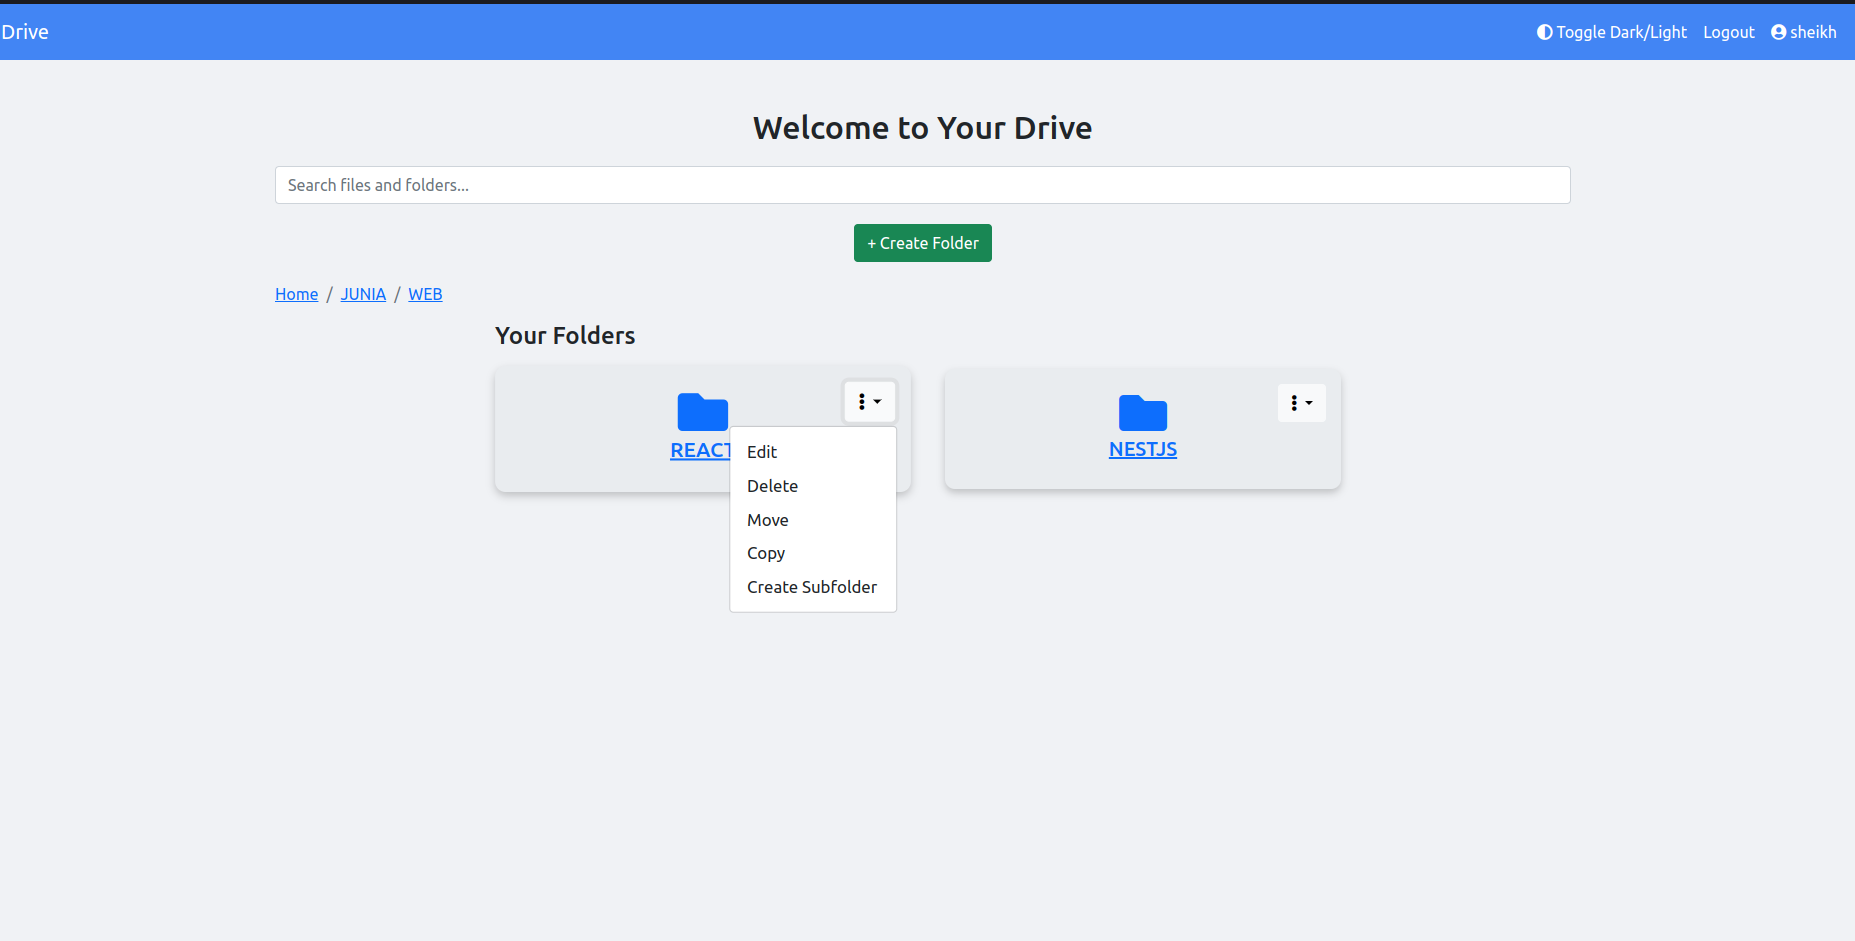
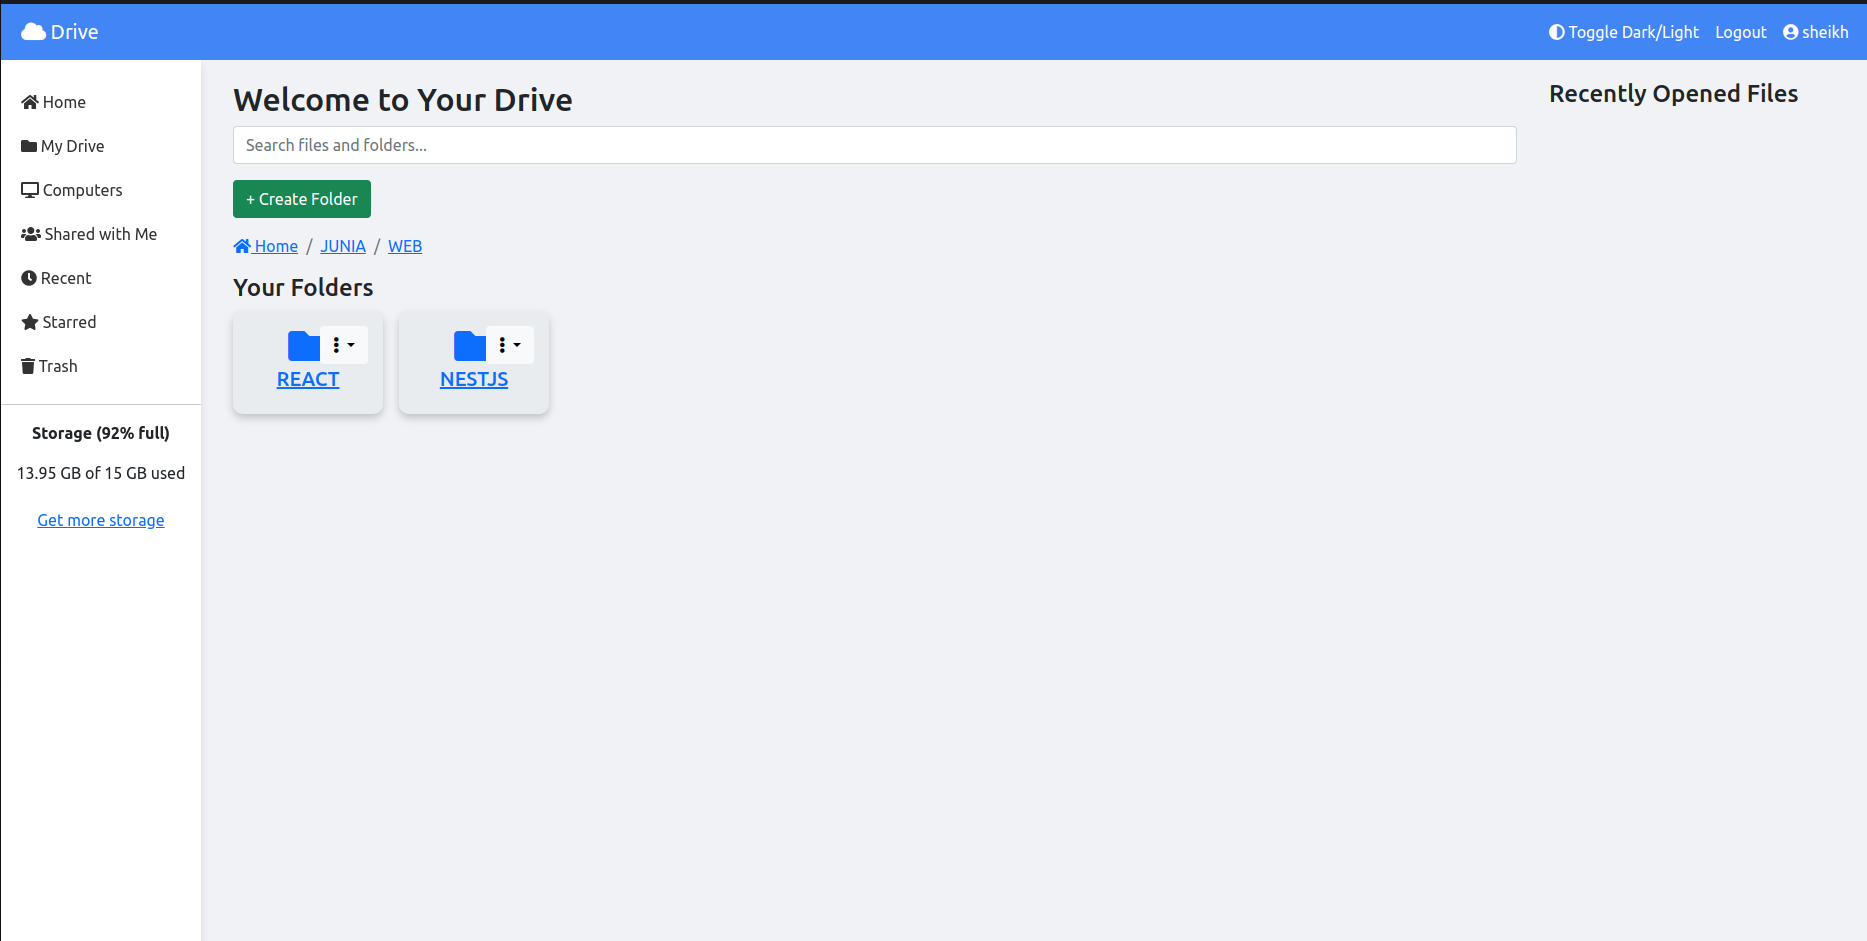
home page

diff --git a/user_management/templates/home.html b/user_management/templates/home.html
@@ -22,38 +22,57 @@
         .navbar {
             background-color: #4285f4;
             color: white;
+            position: sticky;
+            top: 0;
+            z-index: 1000;
         }
 
         .navbar a {
             color: white !important;
         }
 
-        .folder-card {
-            margin: 10px;
+        .sidebar {
+            height: 100vh;
+            position: fixed;
+            top: 56px;
+            left: 0;
+            padding-top: 20px;
+            background-color: #ffffff;
+            width: 220px;
+            box-shadow: 0 4px 8px rgba(0, 0, 0, 0.1);
+        }
+
+        .sidebar a {
+            padding: 10px 20px;
+            display: block;
+            color: #333;
+            text-decoration: none;
+        }
+
+        .sidebar a:hover {
+            background-color: #f0f0f0;
+        }
+
+        .create-folder-btn {
+            padding: 10px 20px;
+            display: block;
+            text-align: center;
+        }
+
+        .content-wrapper {
+            margin-left: 220px;
             padding: 20px;
-            border-radius: 10px;
-            transition: transform 0.2s;
-            box-shadow: 0 4px 8px rgba(0, 0, 0, 0.2);
-            background-color: #e9ecef;
-            position: relative;
+            display: flex;
+            flex-wrap: wrap;
+            gap: 20px;
         }
 
-        .folder-card:hover {
-            transform: scale(1.05);
+        .content {
+            flex: 1;
         }
 
-        .folder-actions {
-            position: absolute;
-            top: 15px;
-            right: 15px;
-        }
-
-        .search-bar {
-            margin: 20px 0;
-        }
-
-        .add-button {
-            margin: 20px 0;
+        .recently-opened {
+            width: 300px;
         }
 
         .profile-popup {
@@ -72,13 +91,47 @@
             background-color: #1e1e1e;
             border: 1px solid #444;
         }
+
+        .folder-card {
+            padding: 15px;
+            border-radius: 10px;
+            transition: transform 0.2s;
+            box-shadow: 0 4px 8px rgba(0, 0, 0, 0.2);
+            background-color: #e9ecef;
+            position: relative;
+            width: 150px;
+        }
+
+        .folder-card:hover {
+            transform: scale(1.05);
+        }
+
+        .folder-actions {
+            position: absolute;
+            top: 15px;
+            right: 15px;
+        }
+
+        .folder-icon {
+            font-size: 2.5rem;
+        }
+
+        .recent-file {
+            margin-bottom: 15px;
+            display: flex;
+            justify-content: space-between;
+            padding: 10px;
+            background-color: #ffffff;
+            border-radius: 5px;
+            box-shadow: 0 4px 8px rgba(0, 0, 0, 0.1);
+        }
     </style>
 </head>
 
 <body>
     <nav class="navbar navbar-expand-lg navbar-light">
         <div class="container-fluid">
-            <a class="navbar-brand" href="#">Drive</a>
+            <a class="navbar-brand ms-2" href="#"><i class="fas fa-cloud"></i> Drive</a>
             <button class="navbar-toggler" type="button" data-bs-toggle="collapse" data-bs-target="#navbarNav"
                 aria-controls="navbarNav" aria-expanded="false" aria-label="Toggle navigation">
                 <span class="navbar-toggler-icon"></span>
@@ -106,36 +159,50 @@
         </div>
     </nav>
 
-    <div class="container mt-5">
-        <h2 class="text-center">Welcome to Your Drive</h2>
-
-        <div class="search-bar text-center">
-            <input type="text" class="form-control" placeholder="Search files and folders..." aria-label="Search">
+    <!-- Sidebar -->
+    <div class="sidebar">
+        <button class="btn btn-success create-folder-btn" data-bs-toggle="modal" data-bs-target="#createFolderModal">+ Create Folder</button>
+        <a href="{% url 'list_folders' %}"><i class="fas fa-home"></i> Home</a>
+        <a href="#"><i class="fas fa-folder"></i> My Drive</a>
+        <a href="#"><i class="fas fa-desktop"></i> Computers</a>
+        <a href="#"><i class="fas fa-users"></i> Shared with Me</a>
+        <a href="#"><i class="fas fa-clock"></i> Recent</a>
+        <a href="#"><i class="fas fa-star"></i> Starred</a>
+        <a href="#"><i class="fas fa-trash"></i> Trash</a>
+        <hr>
+        <div class="text-center">
+            <p><strong>Storage (92% full)</strong></p>
+            <p>13.95 GB of 15 GB used</p>
+            <button class="btn btn-link">Get more storage</button>
         </div>
+    </div>
 
-        <div class="add-button text-center">
-            <button class="btn btn-success" data-bs-toggle="modal" data-bs-target="#createFolderModal">+ Create Folder</button>
-        </div>
+    <div class="content-wrapper">
+        <div class="content">
+            <div class="container-fluid">
+                <h2>Welcome to Your Drive</h2>
 
-        <!-- Breadcrumb Navigation -->
-        <nav aria-label="breadcrumb">
-            <ol class="breadcrumb">
-                <li class="breadcrumb-item"><a href="{% url 'list_folders' %}">Home</a></li>
-                {% for breadcrumb in breadcrumbs %}
-                    <li class="breadcrumb-item"><a href="{% url 'list_folders_nested' breadcrumb.id %}">{{ breadcrumb.name }}</a></li>
-                {% endfor %}
-            </ol>
-        </nav>
+                <div class="search-bar mb-3">
+                    <input type="text" class="form-control" placeholder="Search files and folders..." aria-label="Search">
+                </div>
 
-        <div class="row">
-            <div class="col-md-8 offset-md-2">
-                <h4 class="folder-header">Your Folders</h4>
+                <!-- Breadcrumb Navigation -->
+                <nav aria-label="breadcrumb">
+                    <ol class="breadcrumb">
+                        <li class="breadcrumb-item"><a href="{% url 'list_folders' %}"><i class="fas fa-home"></i> Home</a></li>
+                        {% for breadcrumb in breadcrumbs %}
+                        <li class="breadcrumb-item"><a href="{% url 'list_folders_nested' breadcrumb.id %}">{{ breadcrumb.name }}</a></li>
+                        {% endfor %}
+                    </ol>
+                </nav>
+
                 <div class="row">
-                    {% for folder in folders %}
-                    <div class="col-md-6">
-                        <div class="folder-card text-center">
+                    <h4>Your Folders</h4>
+                    <div class="d-flex flex-wrap">
+                        {% for folder in folders %}
+                        <div class="folder-card text-center me-3 mb-3">
                             <a href="{% url 'list_folders_nested' folder.id %}" class="folder-link">
-                                <i class="fas fa-folder fa-3x"></i>
+                                <i class="fas fa-folder folder-icon"></i>
                                 <h5 class="card-title">{{ folder.name }}</h5>
                             </a>
 
@@ -153,16 +220,27 @@
                                 </ul>
                             </div>
                         </div>
+                        <!-- Include modals for each operation -->
+                        {% include "folder_management/edit_folder_modal.html" %}
+                        {% include "folder_management/delete_folder_modal.html" %}
+                        {% include "folder_management/move_folder_modal.html" %}
+                        {% include "folder_management/copy_folder_modal.html" %}
+                        {% include "folder_management/create_subfolder_modal.html" %}
+                        {% endfor %}
                     </div>
-                    <!-- Include modals for each operation -->
-                    {% include "folder_management/edit_folder_modal.html" %}
-                    {% include "folder_management/delete_folder_modal.html" %}
-                    {% include "folder_management/move_folder_modal.html" %}
-                    {% include "folder_management/copy_folder_modal.html" %}
-                    {% include "folder_management/create_subfolder_modal.html" %}
-                    {% endfor %}
                 </div>
             </div>
+        </div>
+
+        <!-- Recently Opened Files -->
+        <div class="recently-opened">
+            <h4>Recently Opened Files</h4>
+            {% for file in recent_files %}
+            <div class="recent-file">
+                <span>{{ file.name }}</span>
+                <span><i class="fas fa-file"></i></span>
+            </div>
+            {% endfor %}
         </div>
     </div>
 
@@ -180,22 +258,6 @@
 
             $('#toggle-theme').click(function () {
                 $('body').toggleClass('dark-mode');
-            });
-
-            // Close modals on successful operations
-            function closeModal(modalId) {
-                $(modalId).modal('hide');
-            }
-
-            // Assuming a form submission will trigger these actions
-            // Attach to the move, copy, edit forms as needed
-            $('form.move-folder-form, form.copy-folder-form, form.edit-folder-form').submit(function (event) {
-                event.preventDefault(); // Prevent the default form submission
-                // Perform your AJAX or necessary action here
-
-                // Assuming it's successful, close the modal
-                const modalId = '#' + $(this).closest('.modal').attr('id');
-                closeModal(modalId);
             });
         });
 

diff --git a/README.md b/README.md
@@ -26,7 +26,7 @@
 ## Tech Stack
 - **Backend:** Django
 - **Frontend:** HTML, CSS, Bootstrap
-- **Database:** SQLite (default), can be configured to use PostgreSQL or MySQL
+- **Database:** SQLite (default)
 - **Authentication:** Custom User Model
 - **Libraries:** Font Awesome for icons, jQuery for interactivity
 - **Django-Jazzmin:** template for django admin `https://django-jazzmin.readthedocs.io/`
@@ -200,8 +200,9 @@ python manage.py runserver
 Open your browser and go to `http://127.0.0.1:8000/signup` to create a new account or `http://127.0.0.1:8000/login` to log in.
 
 ## Features
-- User registration and authentication
-- File and folder management
+- Authentication and account creation with login and password
+- Browse folders on a web UI
+- Create , edit , delete , copy and move folders
 - Dark and light mode toggle
 - Profile management
 
